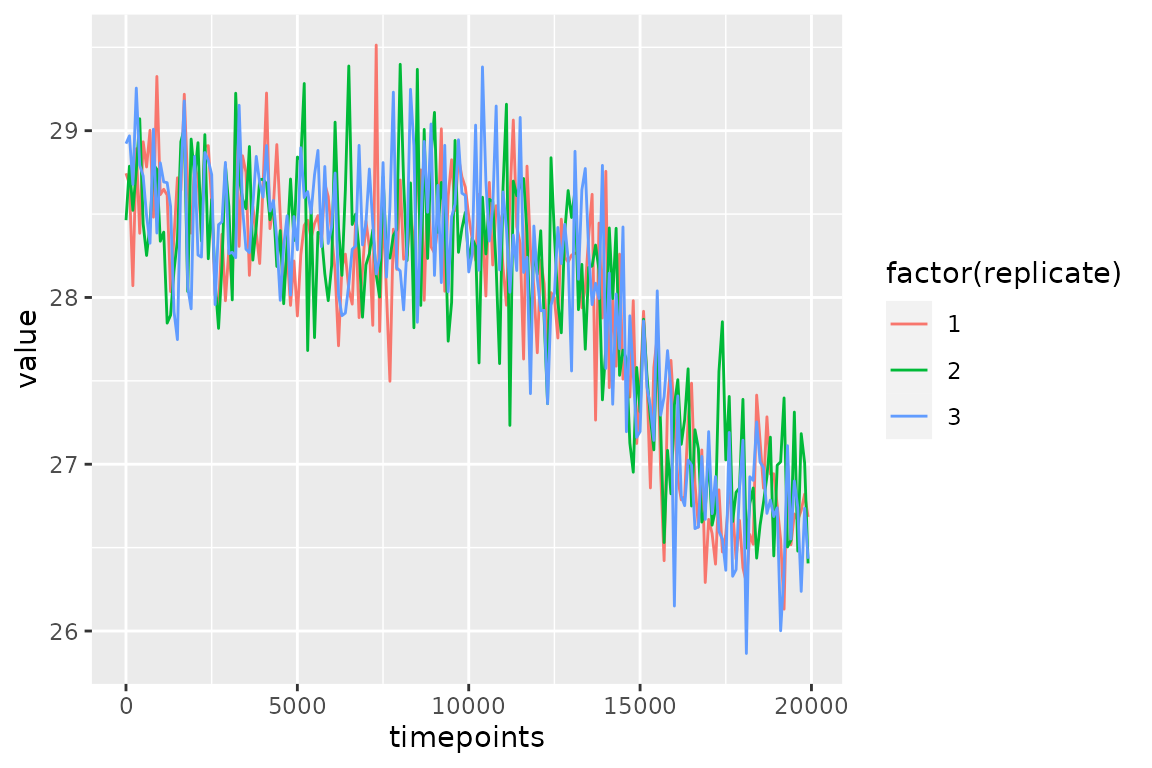
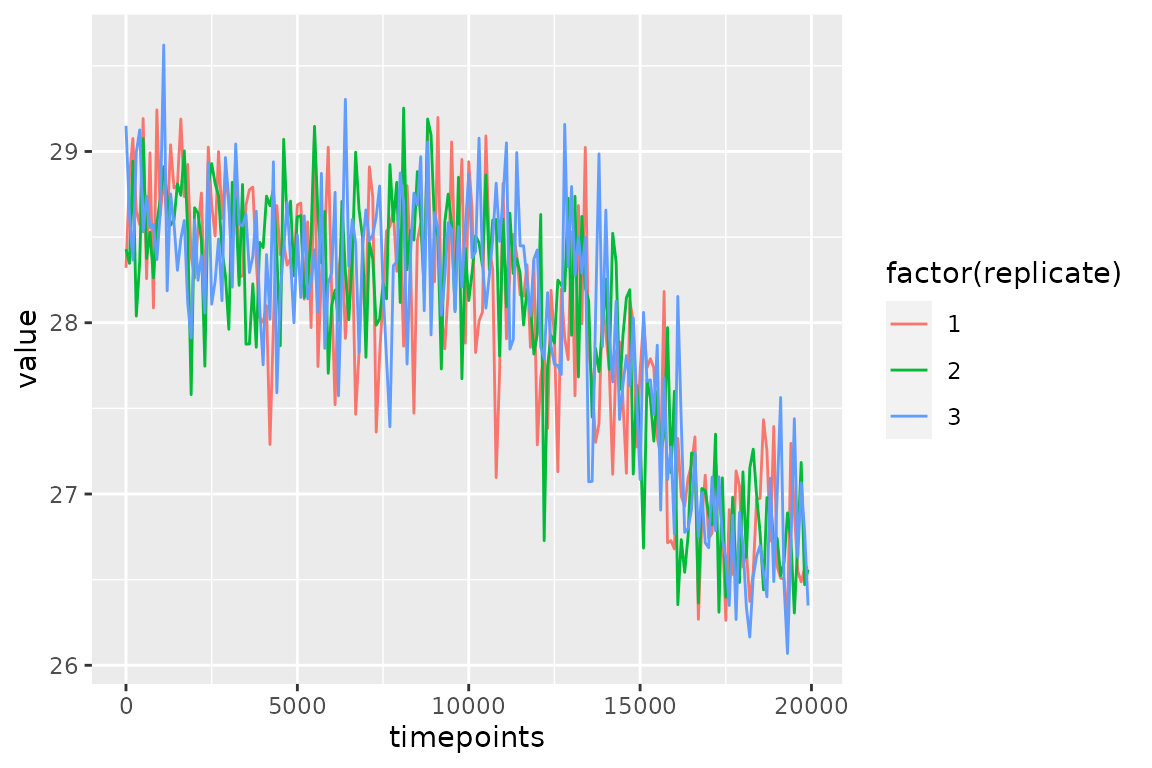
Deploying to gh-pages from @ EarthSystemDiagnostics/sedproxy@e9dbddc20eed153c6ed846278fee1bcb545c743f 🚀

diff --git a/articles/introduction-to-sedproxy.html b/articles/introduction-to-sedproxy.html
@@ -195,16 +195,16 @@
 <pre><code><span class="co">## <span style="color: #949494;"># A tibble: 28,839 × 7</span></span>
 <span class="co">##    timepoints n.samples replicate stage             value scale       label     </span>
 <span class="co">##         <span style="color: #949494; font-style: italic;">&lt;dbl&gt;</span>     <span style="color: #949494; font-style: italic;">&lt;dbl&gt;</span>     <span style="color: #949494; font-style: italic;">&lt;dbl&gt;</span> <span style="color: #949494; font-style: italic;">&lt;chr&gt;</span>             <span style="color: #949494; font-style: italic;">&lt;dbl&gt;</span> <span style="color: #949494; font-style: italic;">&lt;chr&gt;</span>       <span style="color: #949494; font-style: italic;">&lt;chr&gt;</span>     </span>
-<span class="co">## <span style="color: #BCBCBC;"> 1</span>          1        30         1 proxy.bt.sb.sampY  28.8 Proxy units (4) +Alia…</span>
+<span class="co">## <span style="color: #BCBCBC;"> 1</span>          1        30         1 proxy.bt.sb.sampY  28.7 Proxy units (4) +Alia…</span>
 <span class="co">## <span style="color: #BCBCBC;"> 2</span>        101        30         1 proxy.bt.sb.sampY  28.7 Proxy units (4) +Alia…</span>
 <span class="co">## <span style="color: #BCBCBC;"> 3</span>        201        30         1 proxy.bt.sb.sampY  28.7 Proxy units (4) +Alia…</span>
-<span class="co">## <span style="color: #BCBCBC;"> 4</span>        301        30         1 proxy.bt.sb.sampY  28.6 Proxy units (4) +Alia…</span>
+<span class="co">## <span style="color: #BCBCBC;"> 4</span>        301        30         1 proxy.bt.sb.sampY  28.7 Proxy units (4) +Alia…</span>
 <span class="co">## <span style="color: #BCBCBC;"> 5</span>        401        30         1 proxy.bt.sb.sampY  28.7 Proxy units (4) +Alia…</span>
 <span class="co">## <span style="color: #BCBCBC;"> 6</span>        501        30         1 proxy.bt.sb.sampY  28.7 Proxy units (4) +Alia…</span>
 <span class="co">## <span style="color: #BCBCBC;"> 7</span>        601        30         1 proxy.bt.sb.sampY  28.7 Proxy units (4) +Alia…</span>
-<span class="co">## <span style="color: #BCBCBC;"> 8</span>        701        30         1 proxy.bt.sb.sampY  28.6 Proxy units (4) +Alia…</span>
-<span class="co">## <span style="color: #BCBCBC;"> 9</span>        801        30         1 proxy.bt.sb.sampY  28.7 Proxy units (4) +Alia…</span>
-<span class="co">## <span style="color: #BCBCBC;">10</span>        901        30         1 proxy.bt.sb.sampY  28.7 Proxy units (4) +Alia…</span>
+<span class="co">## <span style="color: #BCBCBC;"> 8</span>        701        30         1 proxy.bt.sb.sampY  28.7 Proxy units (4) +Alia…</span>
+<span class="co">## <span style="color: #BCBCBC;"> 9</span>        801        30         1 proxy.bt.sb.sampY  28.6 Proxy units (4) +Alia…</span>
+<span class="co">## <span style="color: #BCBCBC;">10</span>        901        30         1 proxy.bt.sb.sampY  28.6 Proxy units (4) +Alia…</span>
 <span class="co">## <span style="color: #949494;"># … with 28,829 more rows</span></span></code></pre>
 <div class="sourceCode" id="cb18"><pre class="downlit sourceCode r">
 <code class="sourceCode R"><span class="va">PFM.5.reps</span><span class="op">$</span><span class="va">everything</span> <span class="op"><a href="https://magrittr.tidyverse.org/reference/pipe.html" class="external-link">%&gt;%</a></span> 
@@ -349,22 +349,22 @@
 <tr class="odd">
 <td align="left">simulated.proxy</td>
 <td align="left">5 forams</td>
-<td align="right">1.0439235</td>
+<td align="right">1.0479347</td>
 </tr>
 <tr class="even">
 <td align="left">simulated.proxy</td>
 <td align="left">30 forams</td>
-<td align="right">0.4883852</td>
+<td align="right">0.4893119</td>
 </tr>
 <tr class="odd">
 <td align="left">simulated.proxy</td>
 <td align="left">120 forams</td>
-<td align="right">0.3325544</td>
+<td align="right">0.3306450</td>
 </tr>
 <tr class="even">
 <td align="left">simulated.proxy</td>
 <td align="left">10x12 forams</td>
-<td align="right">0.2226334</td>
+<td align="right">0.2226886</td>
 </tr>
 </tbody>
 </table>

diff --git a/index.html b/index.html
@@ -70,7 +70,7 @@
 <p><code>sedproxy</code> provides a forward model for sediment archived climate proxies. The forward model and its applications are described in detail in <a href="https://www.clim-past.net/14/1851/2018/cp-14-1851-2018.html" class="external-link">(Dolman and Laepple, CP 2018)</a>.</p>
 <p>Please contact Dr Andrew Dolman &lt;<a href="mailto:andrew.dolman@awi.de" class="email">andrew.dolman@awi.de</a>&gt;, or Dr Thomas Laepple &lt;<a href="mailto:tlaepple@awi.de" class="email">tlaepple@awi.de</a>&gt;, at the Alfred-Wegener-Institute, Helmholtz Centre for Polar and Marine Research, Germany, for more information.</p>
 <p>This work was supported by German Federal Ministry of Education and Research (BMBF) as Research for Sustainability initiative <a href="https://www.fona.de/" class="external-link">FONA</a> through the <a href="https://www.palmod.de/" class="external-link">PalMod</a> project (FKZ: 01LP1509C).</p>
-<p><img src="inst/sedproxy-shiny/www/PalMod_Logo_RGB.png"></p>
+<p><img src="reference/figures/PalMod_Logo_RGB.png"></p>
 </div>
 <div class="section level2">
 <h2 id="installation">Installation<a class="anchor" aria-label="anchor" href="#installation"></a>
@@ -91,7 +91,7 @@
 <div class="sourceCode" id="cb2"><pre class="downlit sourceCode r">
 <code class="sourceCode R"><span class="kw"><a href="https://rdrr.io/r/base/library.html" class="external-link">library</a></span><span class="op">(</span><span class="va"><a href="https://earthsystemdiagnostics.github.io/sedproxy/">sedproxy</a></span><span class="op">)</span>
 <span class="fu"><a href="reference/ShinySedproxy.html">ShinySedproxy</a></span><span class="op">(</span><span class="op">)</span></code></pre></div>
-<p><img src="inst/extdata/sedproxy-screenshot.png"></p>
+<p><img src="reference/figures/sedproxy-screenshot.png"></p>
 <p>An online version of the Shiny app is hosted at <a href="https://limnolrgy.shinyapps.io/sedproxy-shiny/" class="external-link">shinyapps.io</a></p>
 <p>Below are some brief examples of how to run <code>sedproxy</code> from a script or the command line.</p>
 </div>
